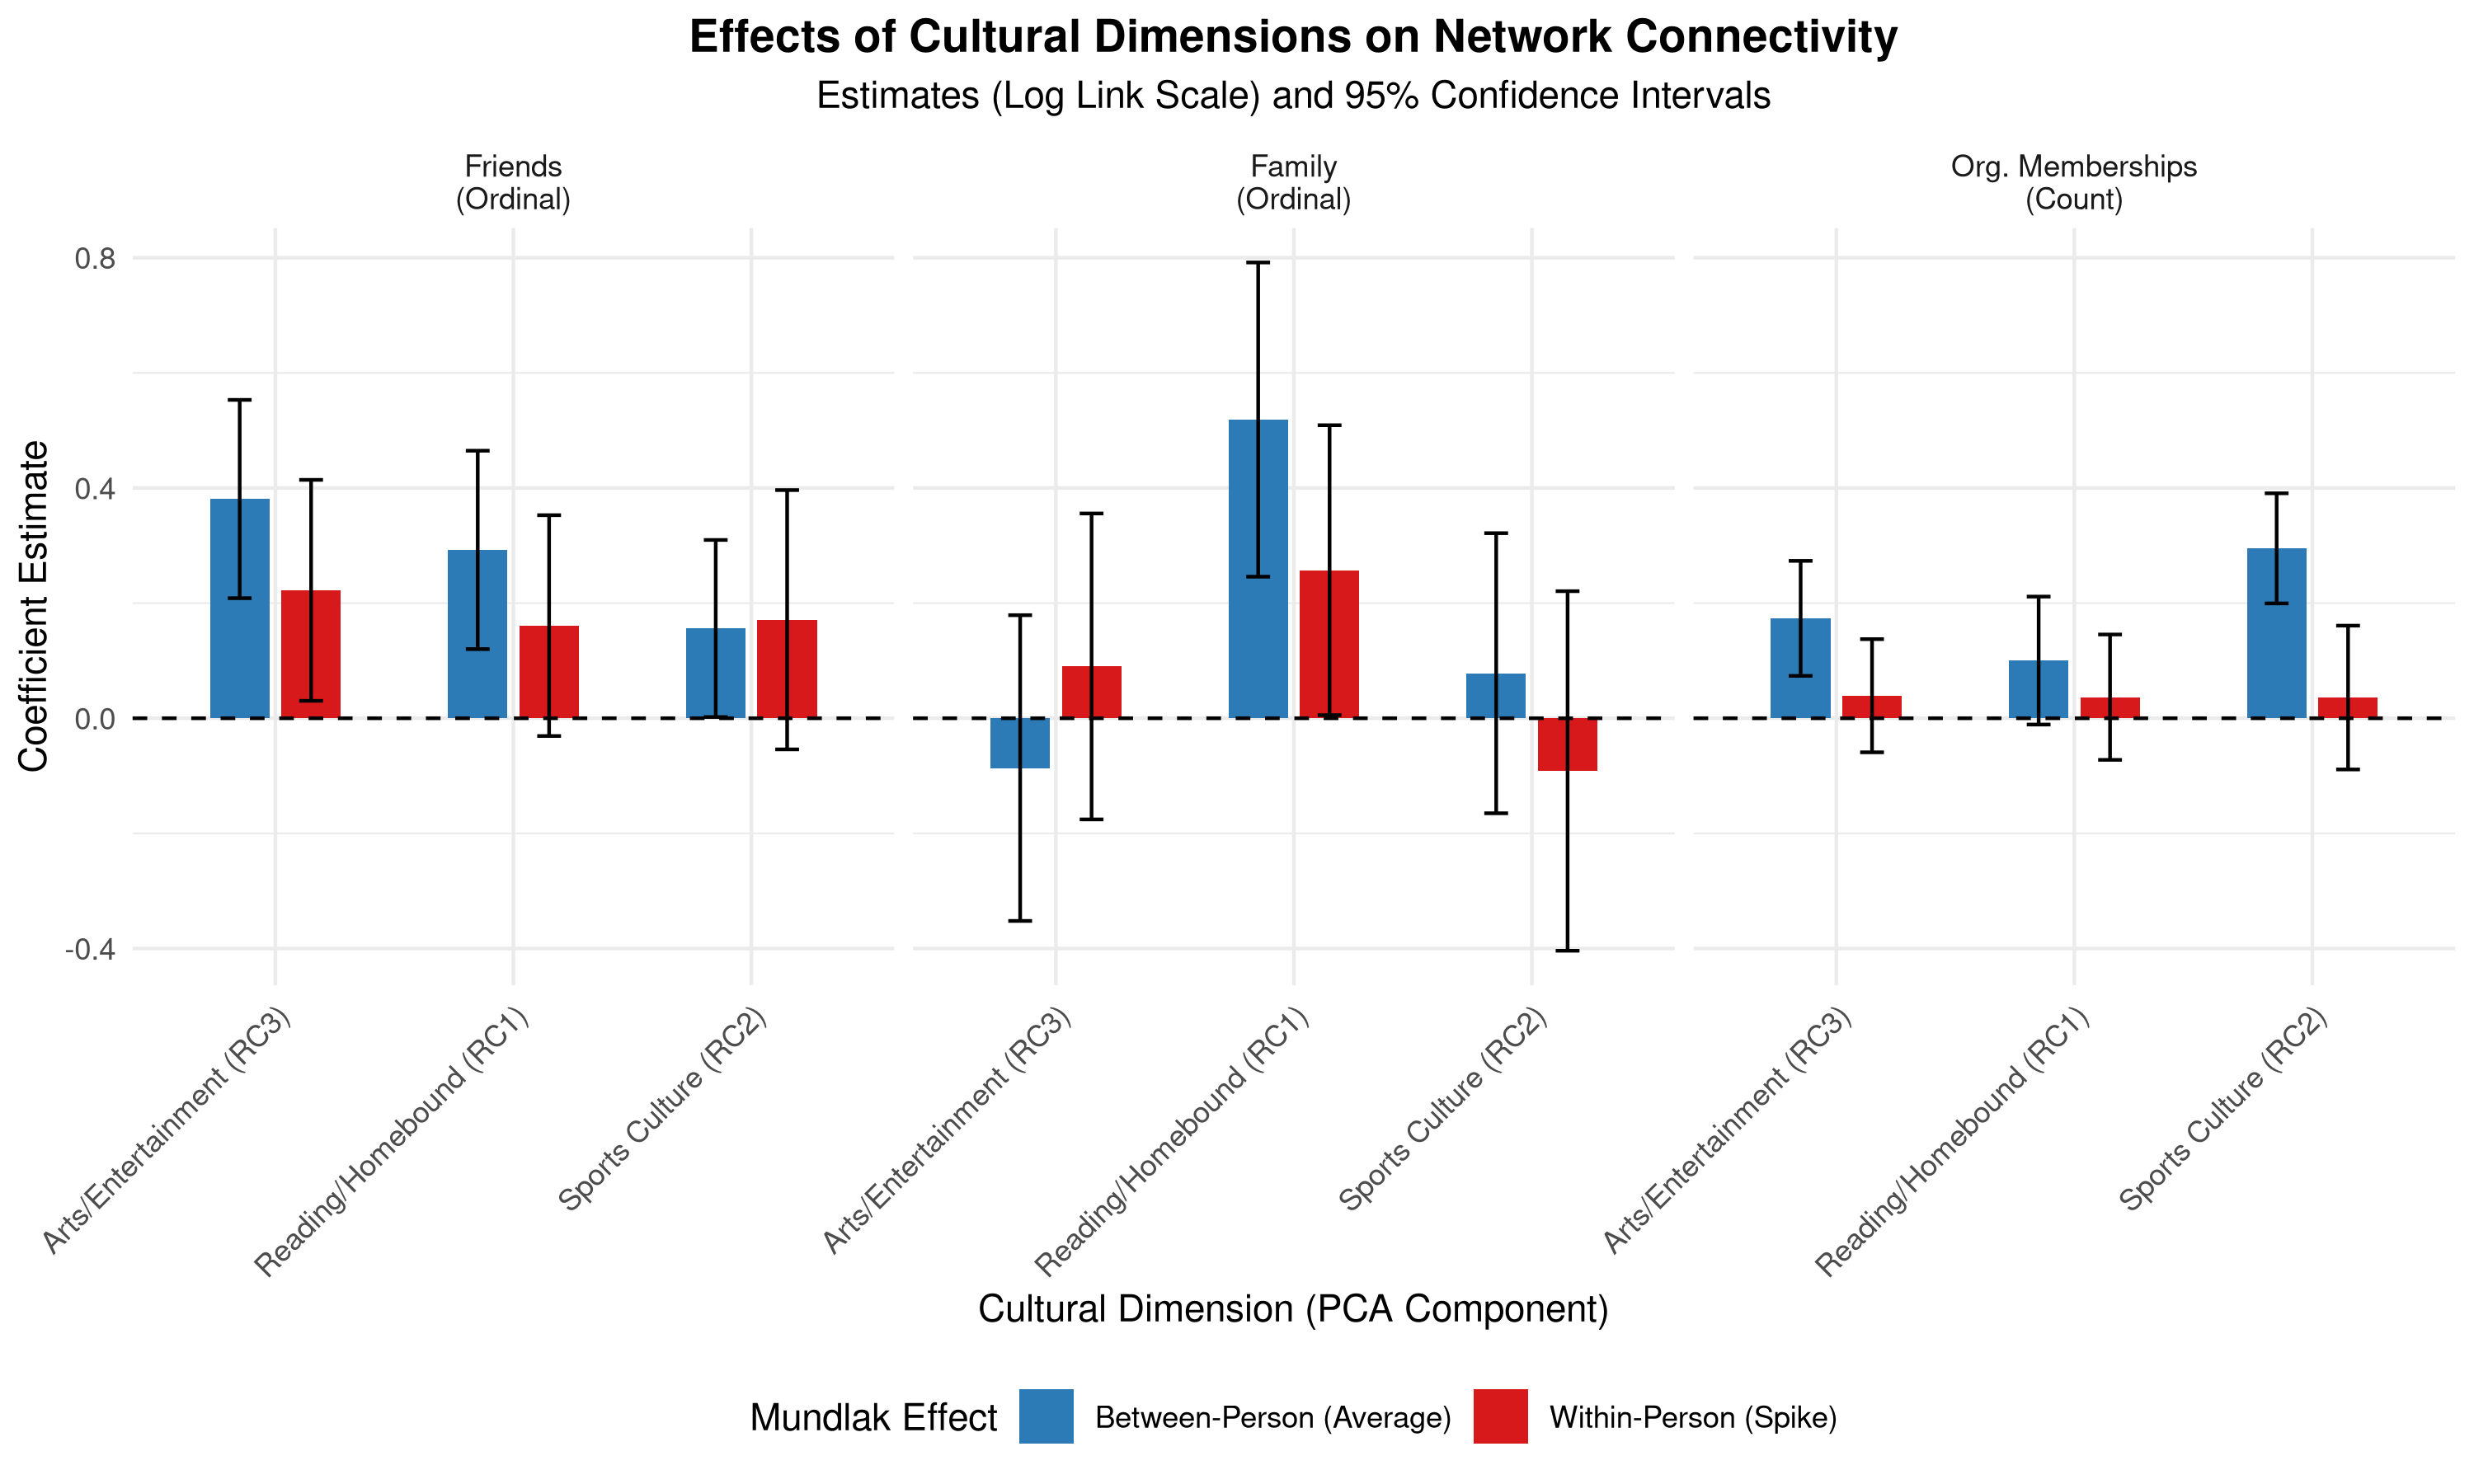
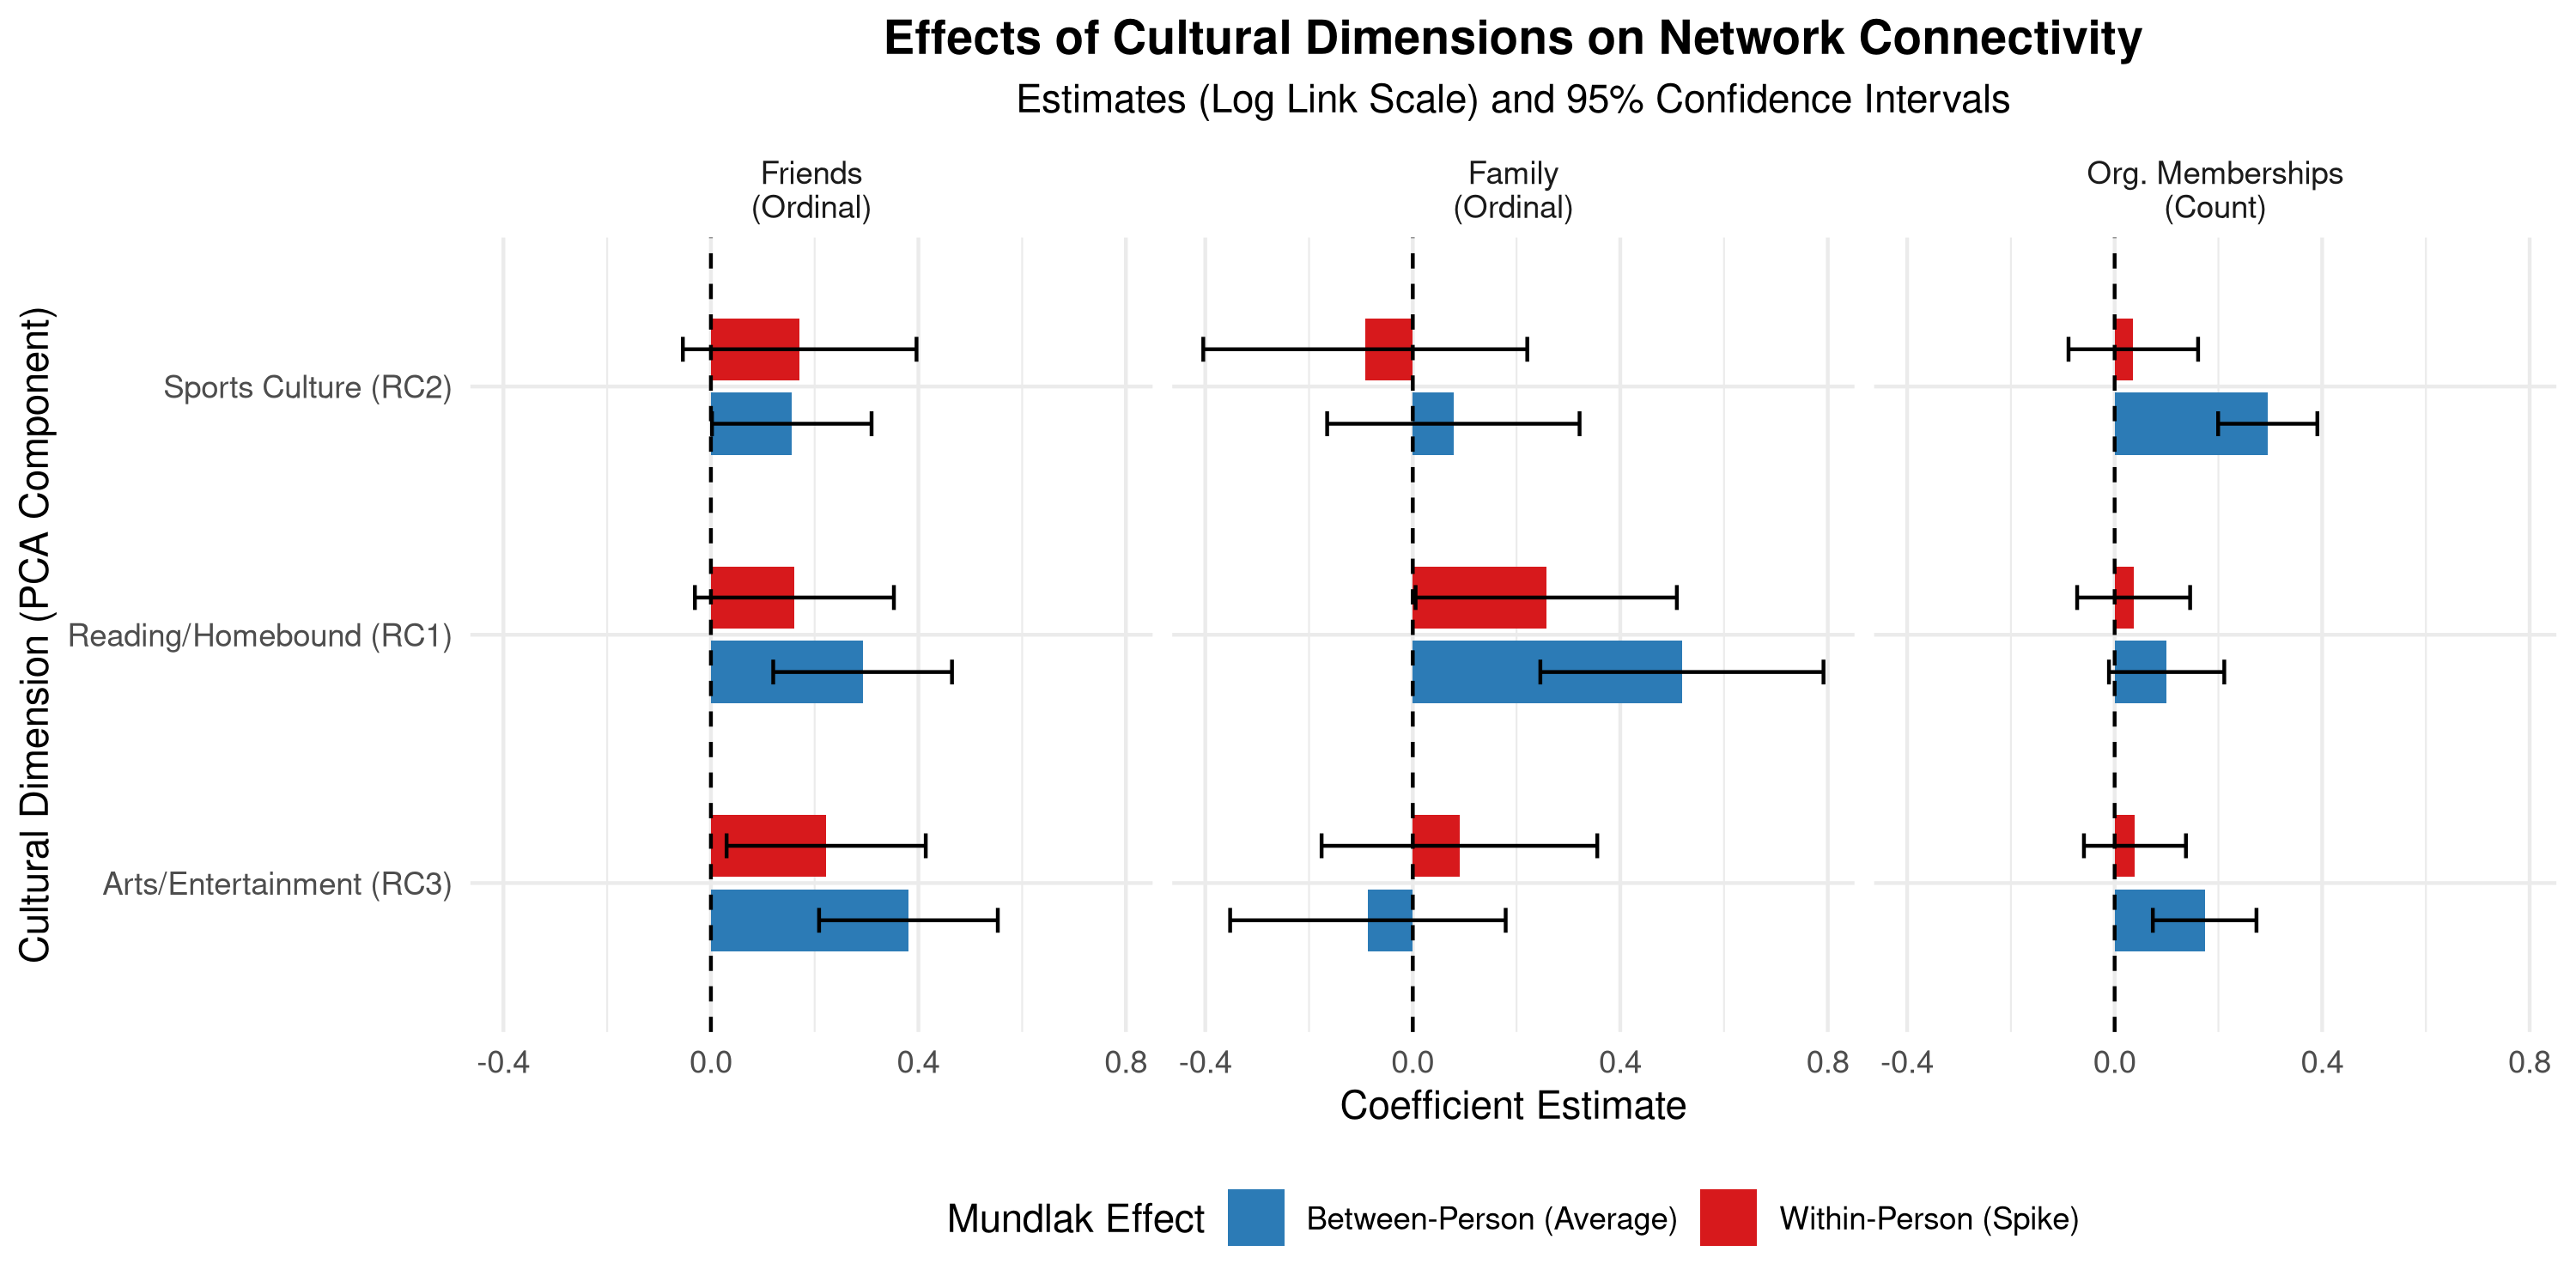
boof

diff --git a/manuscript_research_note.tex b/manuscript_research_note.tex
@@ -95,6 +95,15 @@ To assess the hypotheses connected to the effects of cultural taste on indicator
 
 A Varimax-rotated PCA of these harmonized items cleanly separated cultural engagement into three specialized dimensions, which together explain roughly 43\% of the total variance. Component 1 captures \emph{Reading/Homebound Culture} (heavy loadings on reading magazines, reading books, engaging in hobbies, and reading the newspaper). Component 2 captures \emph{Sports Culture} (heavy loadings on following sports and attending sports events). Component 3 captures \emph{Out-of-Home Arts/Entertainment} (heavy loadings on going to movies, going to plays, listening to music, and watching videos). I output the continuous factor scores for these three rotated components for each individual in each wave, using these distinct dimensions to predict the maintenance of network ties.\footnote{Prior drafts of this project utilized a simple 10-item additive index of cultural breadth. Using an unrotated PCA, all 10 items load positively onto the first principal component, confirming a general dimension of omnivorousness. However, decomposing this breadth via Varimax rotation reveals important relational specialization that the additive index obscures.}
 
+Figure \ref{fig:pca_loadings} visualizes the item-component correlations (loadings) for this rotated solution. This decomposition clarifies that ``omnivorousness'' is not a monolithic trait. Reading books and magazines anchors a homebound dimension; going to plays and movies anchors a public arts dimension; and following and attending sports anchors a third. By extracting these scores, we can isolate whether specific types of cultural capital perform specialized relational work.
+
+\begin{figure}[htbp]
+\centering
+\includegraphics[width=0.85\textwidth]{Plots/pca_loadings.png}
+\caption{Item-Component Correlations (Varimax PCA Loadings). Heatmap cells display the correlation between each binarized cultural practice and the extracted principal components.}
+\label{fig:pca_loadings}
+\end{figure}
+
 \subsubsection{Social connectedness indicators}\label{social-connectedness-indicators}
 
 In order to test the cultural capital hypotheses, I use three indicators of social connectivity: (a) the frequency of informal interaction with close friends, (b) the frequency of interaction with family members (kin), and (c) the ability to remain connected to important foci for social interaction, such as voluntary associations. 